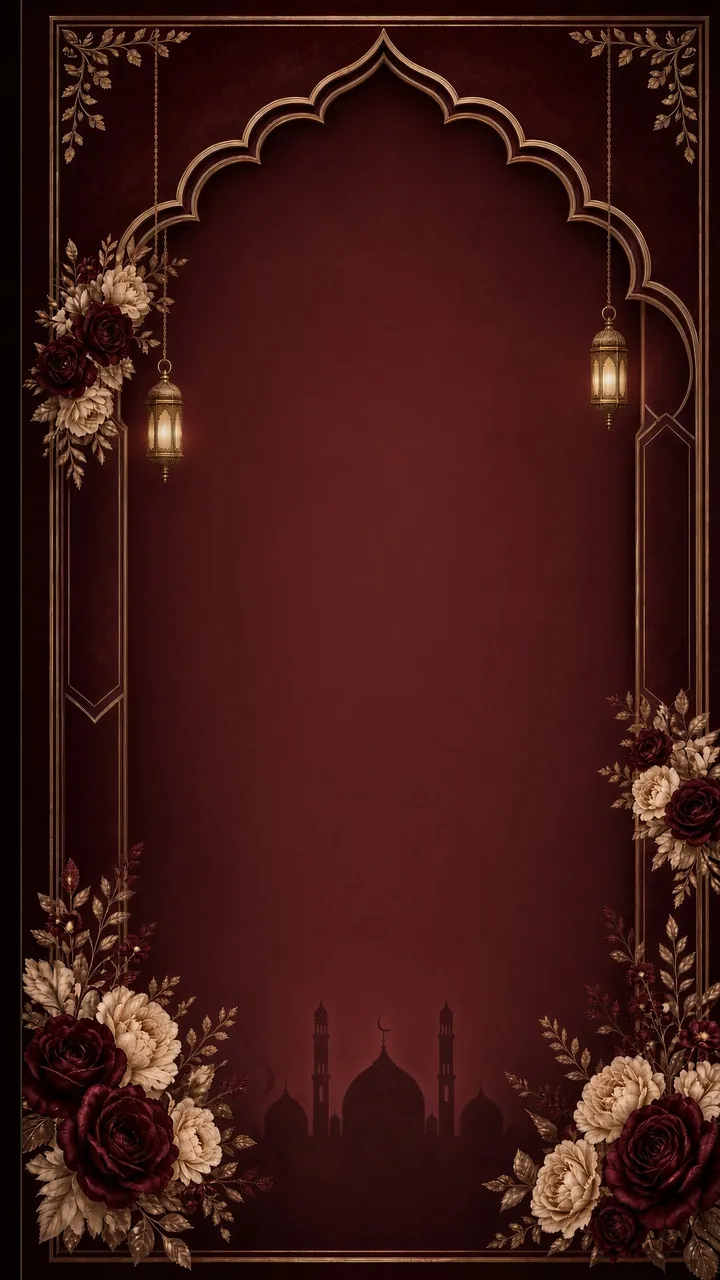
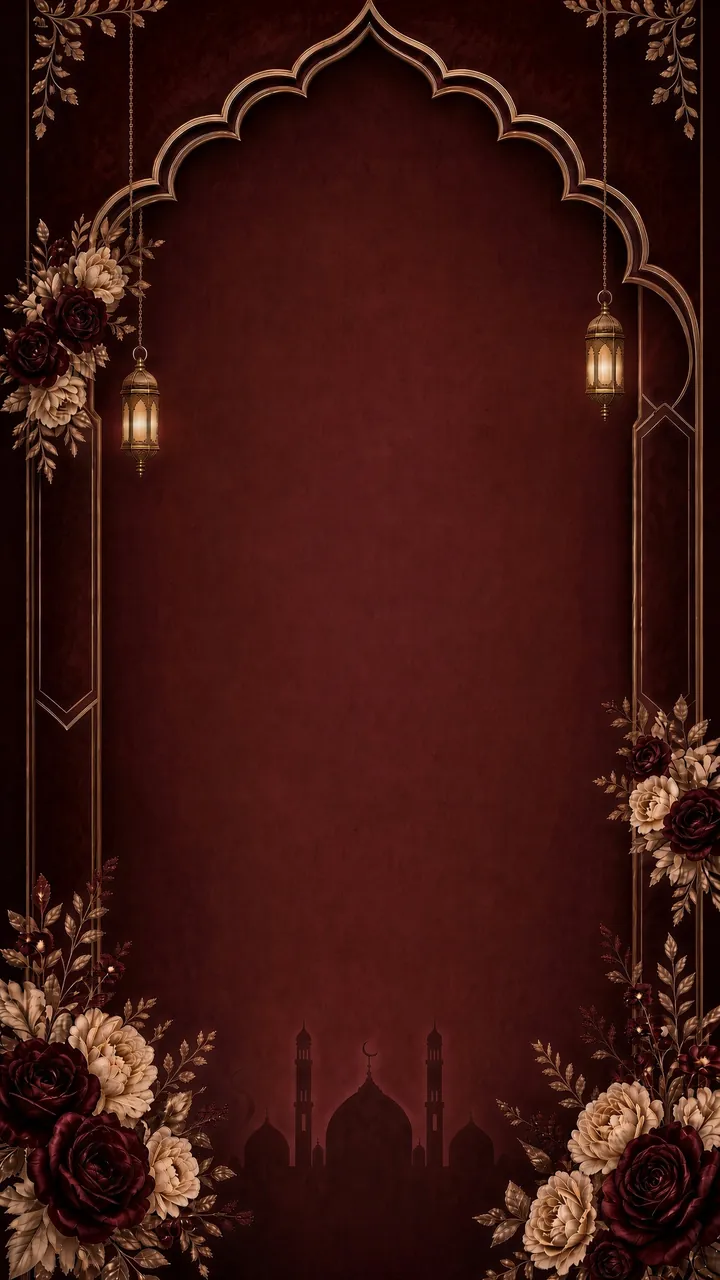
Remove the uneven black rail on the arch card (#8)
The left edge of the hero artwork was a solid black strip, so the gold
frame (and Scroll to explore) looked off-center. Replaced with a
symmetric gold-framed card and an empty burgundy center.

Changed region(s): [[0.0, 0.0, 1.0, 1.0]]

diff --git a/index.html b/index.html
@@ -6,8 +6,8 @@
     <meta name="theme-color" content="#2a080c">
     <meta name="description" content="You are invited to the Barat of Khadija Imran Butt and Adeel Kamal Ahmad. November 10, 2026 · Lahore.">
     <title>BARAT · Adeel & Khadija</title>
-    <link rel="stylesheet" href="style.css?v=4">
-    <link rel="preload" as="image" type="image/webp" href="assets/hero-arch.webp?v=4">
+    <link rel="stylesheet" href="style.css?v=5">
+    <link rel="preload" as="image" type="image/webp" href="assets/hero-arch.webp?v=5">
     <link href="https://fonts.googleapis.com/css2?family=Playfair+Display:ital,wght@0,400;0,500;0,600;0,700;1,400;1,500&family=Cormorant+Garamond:ital,wght@0,300;0,400;0,500;1,300;1,400&family=Inter:wght@300;400;500&display=swap" rel="stylesheet">
 </head>
 <body class="curtain-intro">
@@ -31,12 +31,12 @@
                 <picture>
                     <source
                         type="image/webp"
-                        srcset="assets/hero-arch-720.webp?v=4 720w, assets/hero-arch.webp?v=4 1008w"
+                        srcset="assets/hero-arch-720.webp?v=5 720w, assets/hero-arch.webp?v=5 1008w"
                         sizes="(max-width: 700px) 100vw, min(100vw, 56vh)">
                     <img
                         class="hero-card"
-                        src="assets/hero-arch.jpg?v=4"
-                        srcset="assets/hero-arch-720.jpg?v=4 720w, assets/hero-arch.jpg?v=4 1008w"
+                        src="assets/hero-arch.jpg?v=5"
+                        srcset="assets/hero-arch-720.jpg?v=5 720w, assets/hero-arch.jpg?v=5 1008w"
                         sizes="(max-width: 700px) 100vw, min(100vw, 56vh)"
                         width="1008"
                         height="1792"
